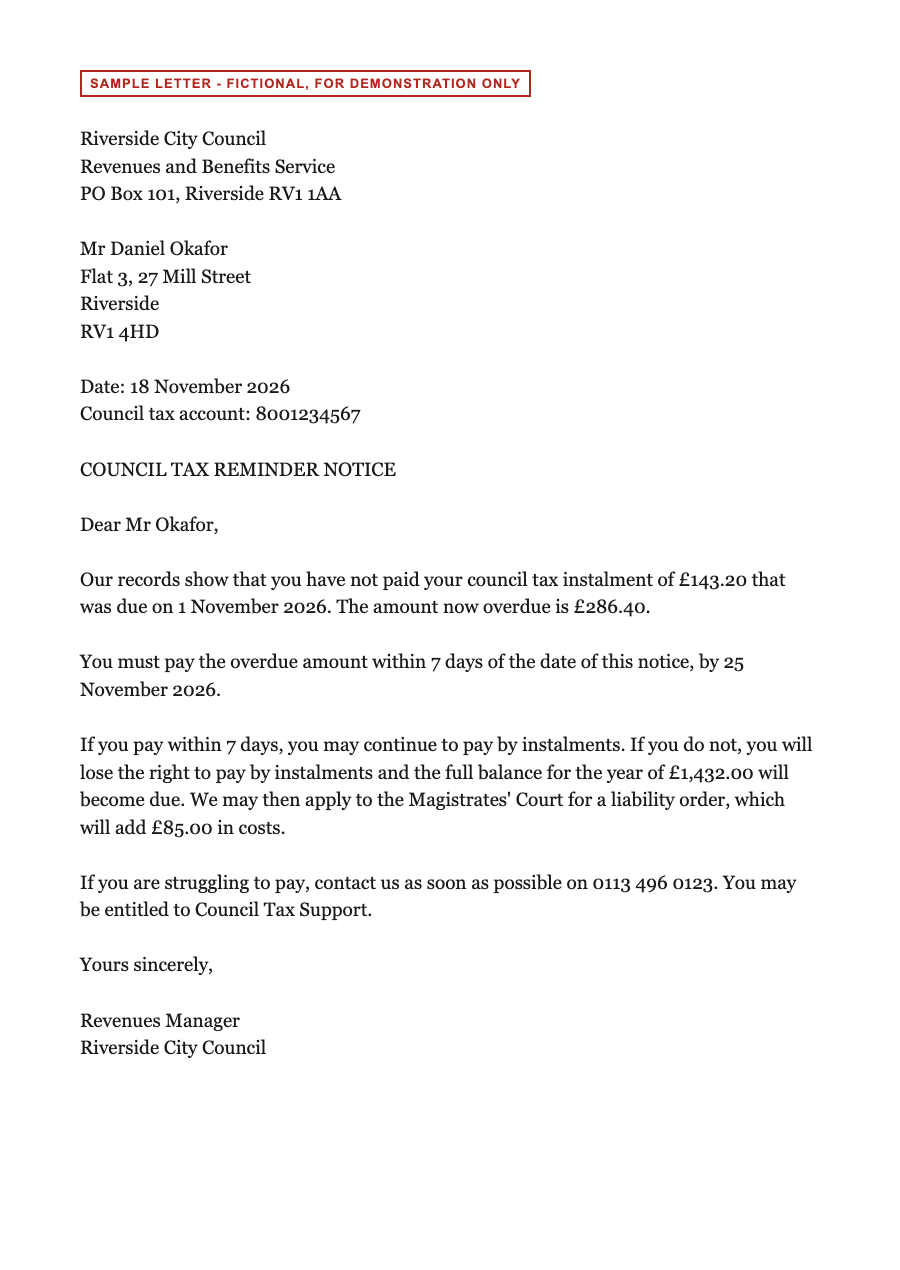
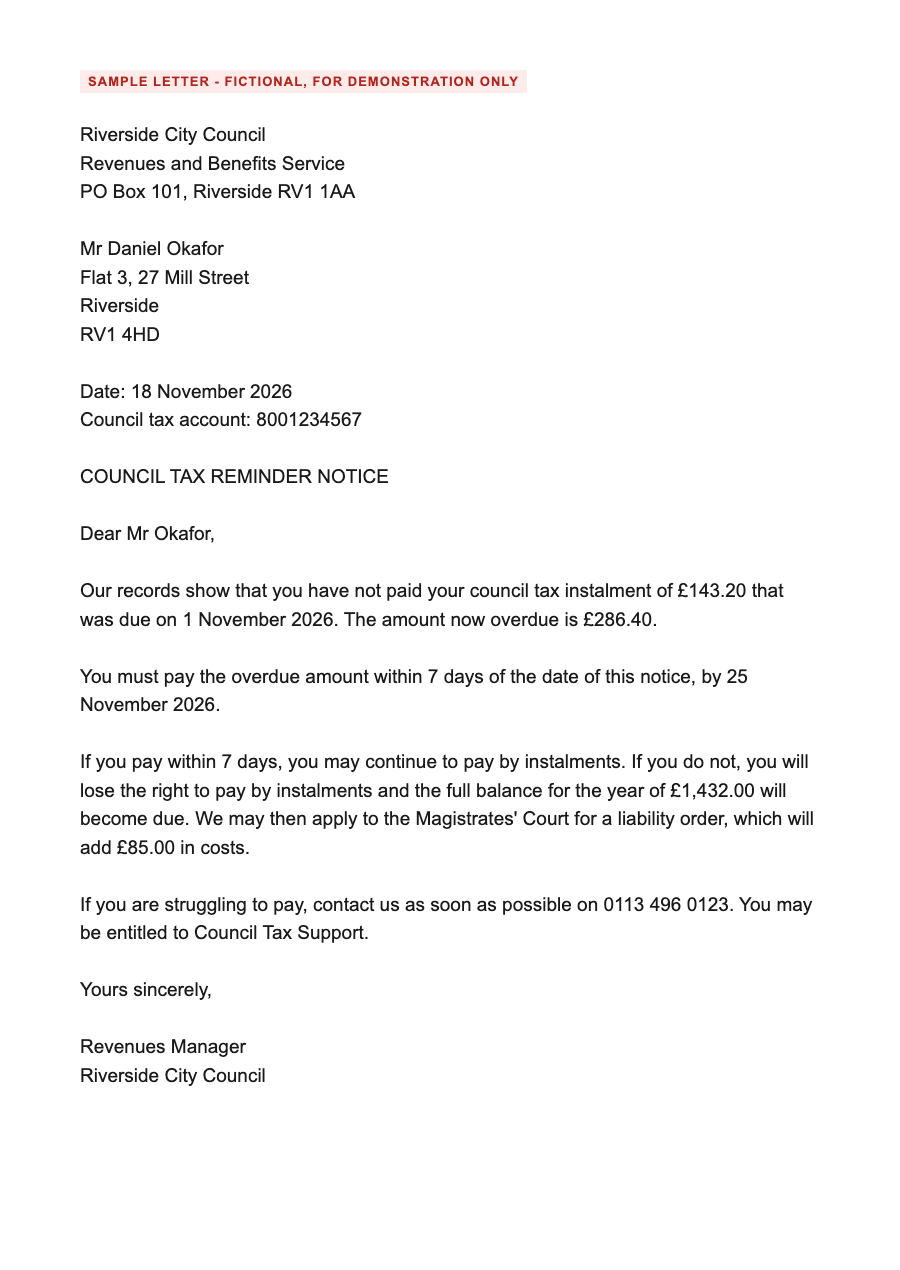
fix: hide name parts used alone; clearer sample scans
Found on a Galaxy S26 Ultra with Gemini Nano: Nano tags the full name
once, but letters repeat the surname ('Dear Mrs O'Neill'), which then
went unhidden. Each real part of a tagged name is now hidden wherever
it appears alone. Samples re-rendered in Arial (old-style figures in
Georgia made OCR read '£10' as '£1o') with a tinted stamp instead of an
outline OCR read as '|'.

Changed region(s): [[0.0933, 0.3685, 0.9022, 0.8598], [0.0933, 0.0614, 0.5911, 0.1535], [0.0933, 0.1843, 0.4044, 0.3378]]

diff --git a/app/src/main/java/dev/novanest/envelope/privacy/RedactionMerger.kt b/app/src/main/java/dev/novanest/envelope/privacy/RedactionMerger.kt
@@ -6,6 +6,7 @@ object RedactionMerger {
     fun merge(text: String, spans: List<PiiSpan>): Redaction {
         // 1. One candidate per distinct value; the highest-priority source decides its type.
         val candidates = spans
+            .flatMap(::withNameParts)
             .filter { it.text.isNotBlank() && !tooVague(it) }
             .sortedBy { it.source.ordinal }
             .distinctBy { normalizeValue(it.text) }
@@ -41,6 +42,20 @@ object RedactionMerger {
         out.append(text, cursor, text.length)
 
         return Redaction(original = text, redacted = out.toString(), tokens = tokenFor.values.toList(), placements = placements)
+    }
+
+    private val TITLES = setOf("mr", "mrs", "ms", "miss", "mx", "dr", "sir", "dame", "lord", "lady", "rev", "prof")
+
+    /**
+     * Letters name you in full once ("Mrs Margaret O'Neill") and then by surname ("Dear Mrs O'Neill"). Nano tags the
+     * full name, so each real part of it (not titles, not initials) is hidden wherever it appears alone too.
+     */
+    private fun withNameParts(span: PiiSpan): List<PiiSpan> {
+        if (span.type != PiiType.NAME) return listOf(span)
+        val parts = span.text.trim().split(Regex("\\s+"))
+            .map { it.trim(',', '.', ';', ':') }
+            .filter { it.length >= 3 && it.first().isUpperCase() && it.lowercase().trimEnd('.') !in TITLES }
+        return if (parts.size < 2) listOf(span) else listOf(span) + parts.map { PiiSpan(it, PiiType.NAME, span.source) }
     }
 
     /**

diff --git a/app/src/test/java/dev/novanest/envelope/privacy/RedactionMergerTest.kt b/app/src/test/java/dev/novanest/envelope/privacy/RedactionMergerTest.kt
@@ -70,4 +70,15 @@ class RedactionMergerTest {
         assertEquals("[ADDRESS_1] LS6", r.redacted)
         assertEquals("Flat 2, 14 Elm Road, Leeds", r.tokens.single().value)
     }
+
+    @Test fun surnameAloneIsHiddenWhenTheFullNameIs() {
+        val r = merge("Mrs Margaret O'Neill\nDear Mrs O'Neill, and Margaret too.", name("Margaret O'Neill"))
+        assertEquals("Mrs [NAME_1]\nDear Mrs [NAME_2], and [NAME_3] too.", r.redacted)
+        assertEquals(listOf("Margaret O'Neill", "O'Neill", "Margaret"), r.tokens.map { it.value })
+    }
+
+    @Test fun titlesAndShortPartsOfANameAreNotHiddenAlone() {
+        val r = merge("Mrs Jo Li wrote. Mrs Smith replied.", name("Mrs Jo Li"))
+        assertEquals("[NAME_1] wrote. Mrs Smith replied.", r.redacted)
+    }
 }

diff --git a/tools/render_samples.py b/tools/render_samples.py
@@ -4,8 +4,8 @@ root = pathlib.Path(__file__).resolve().parent.parent
 samples = root / "app/src/main/assets/samples"
 chrome = "/Applications/Google Chrome.app/Contents/MacOS/Google Chrome"
 css = """body{margin:0;background:#fff}
-.page{box-sizing:border-box;width:900px;min-height:1270px;padding:70px 80px;font:19px/1.45 Georgia,serif;color:#1a1a1a}
-.stamp{font:bold 13px Arial,sans-serif;color:#b3261e;letter-spacing:.08em;border:2px solid #b3261e;display:inline-block;padding:4px 8px;margin-bottom:28px}
+.page{box-sizing:border-box;width:900px;min-height:1270px;padding:70px 80px;font:19px/1.5 Arial,Helvetica,sans-serif;color:#1a1a1a}
+.stamp{font:bold 13px Arial,sans-serif;color:#b3261e;letter-spacing:.08em;background:#fdecea;display:inline-block;padding:4px 8px;margin-bottom:28px}
 pre{white-space:pre-wrap;font:inherit;margin:0}"""
 for txt in sorted(samples.glob("*.txt")):
     lines = txt.read_text().splitlines()
